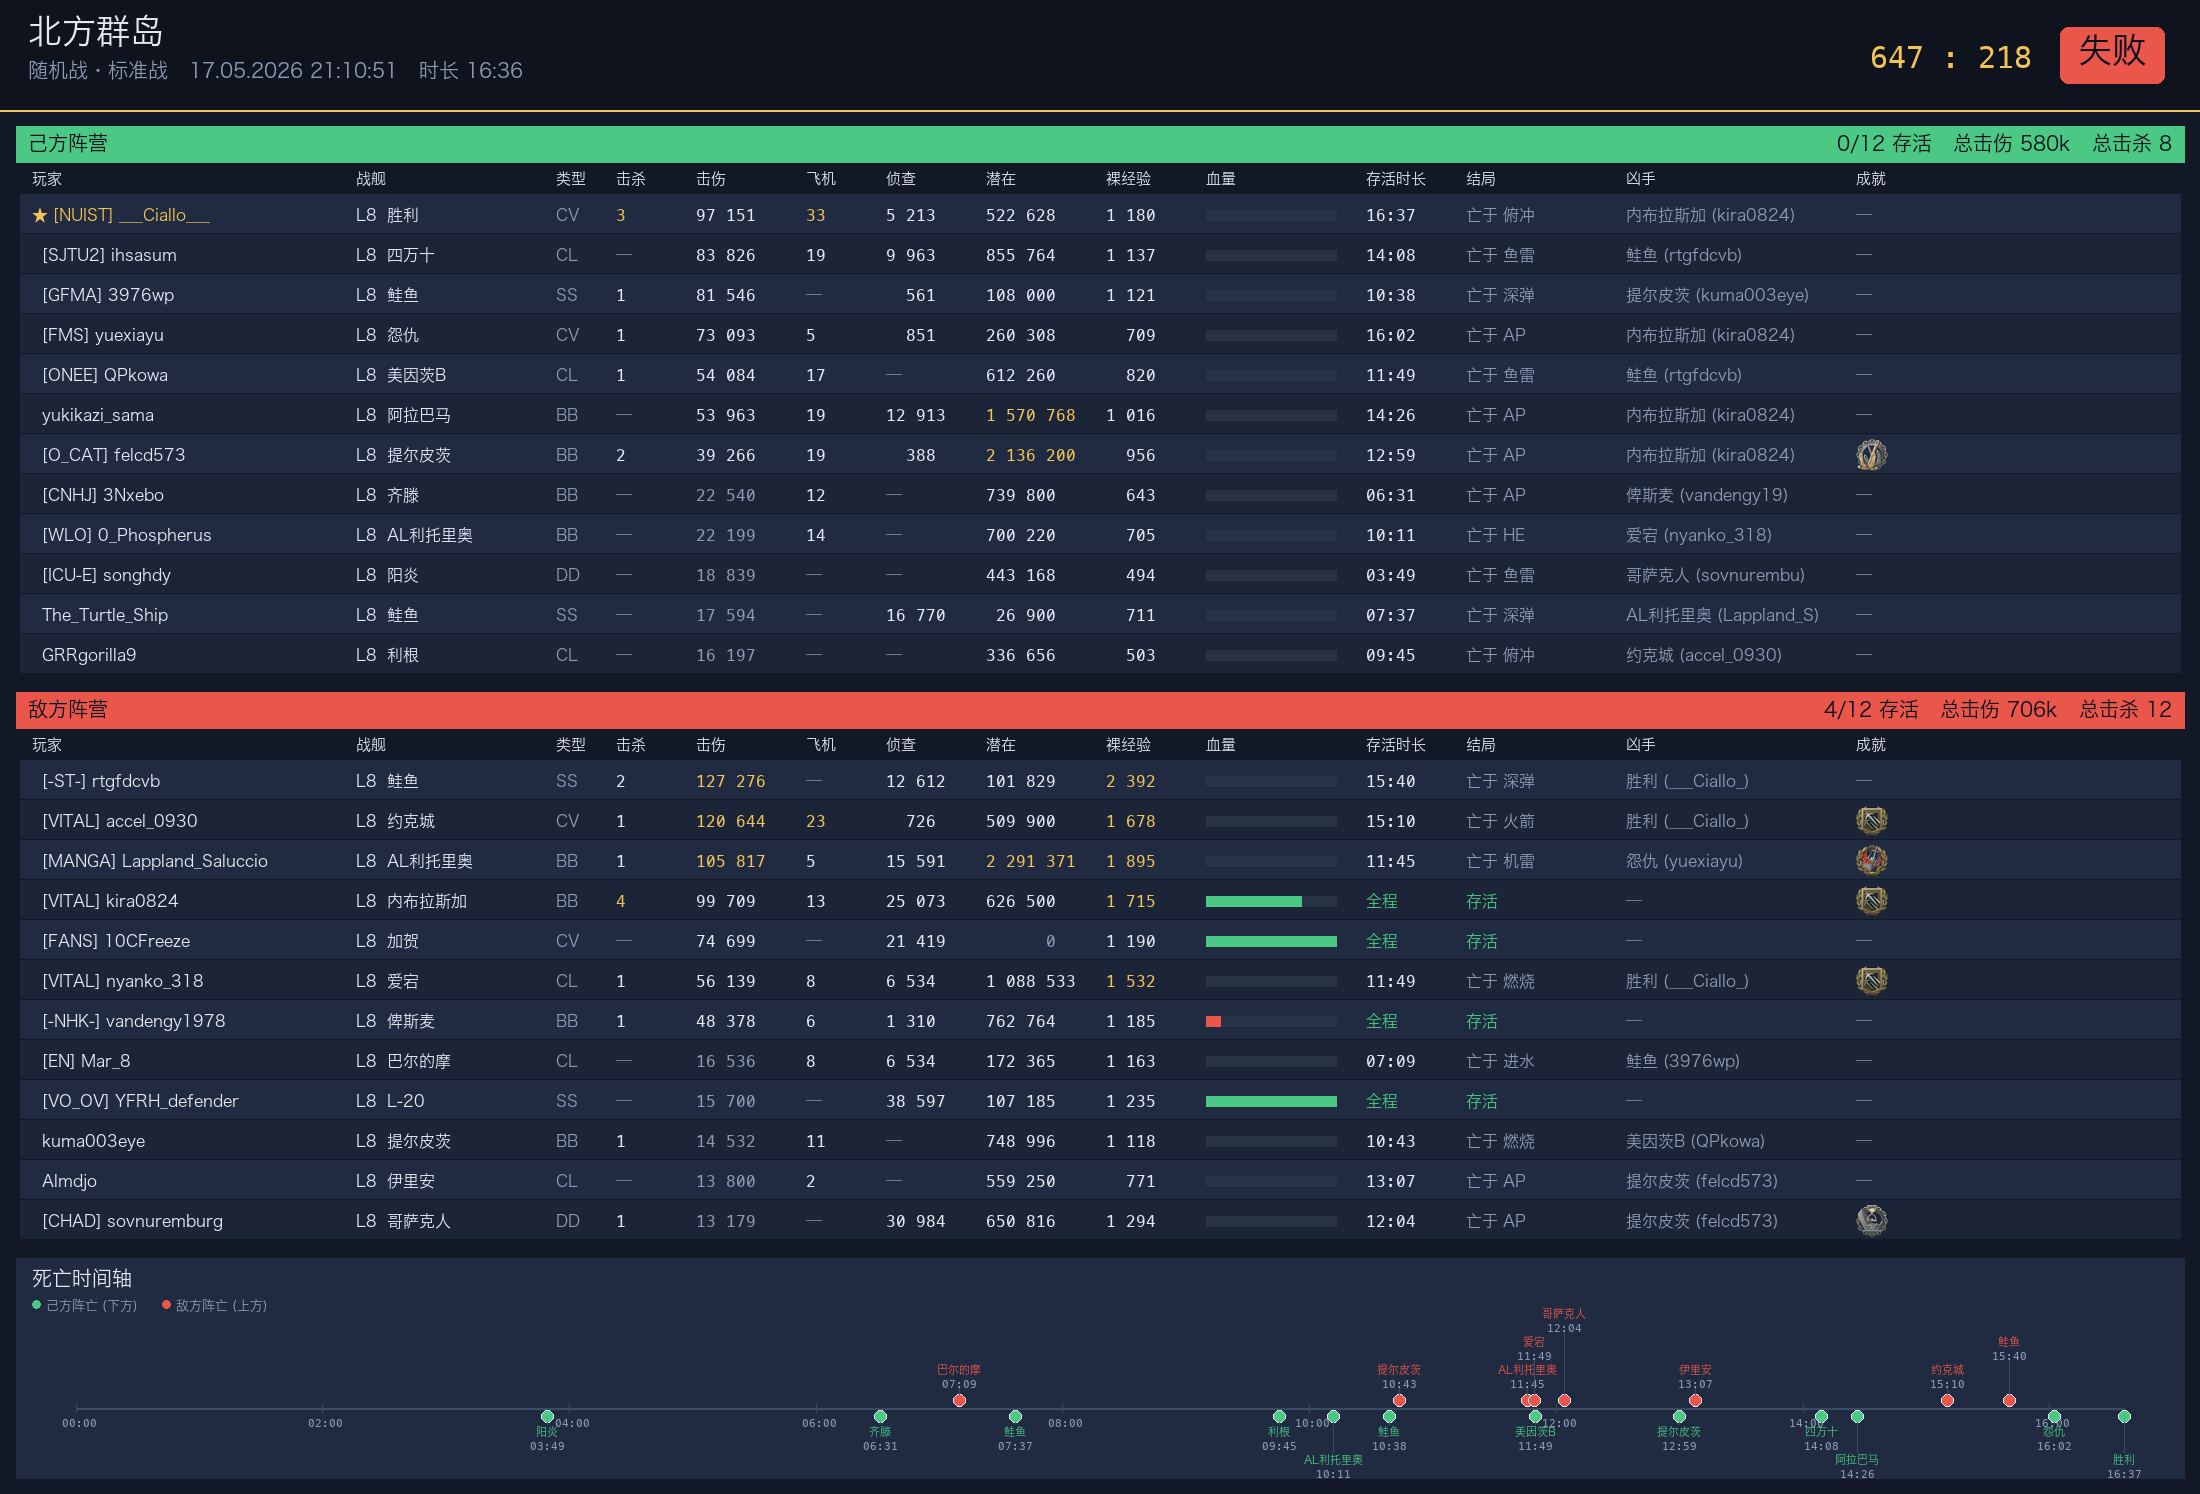
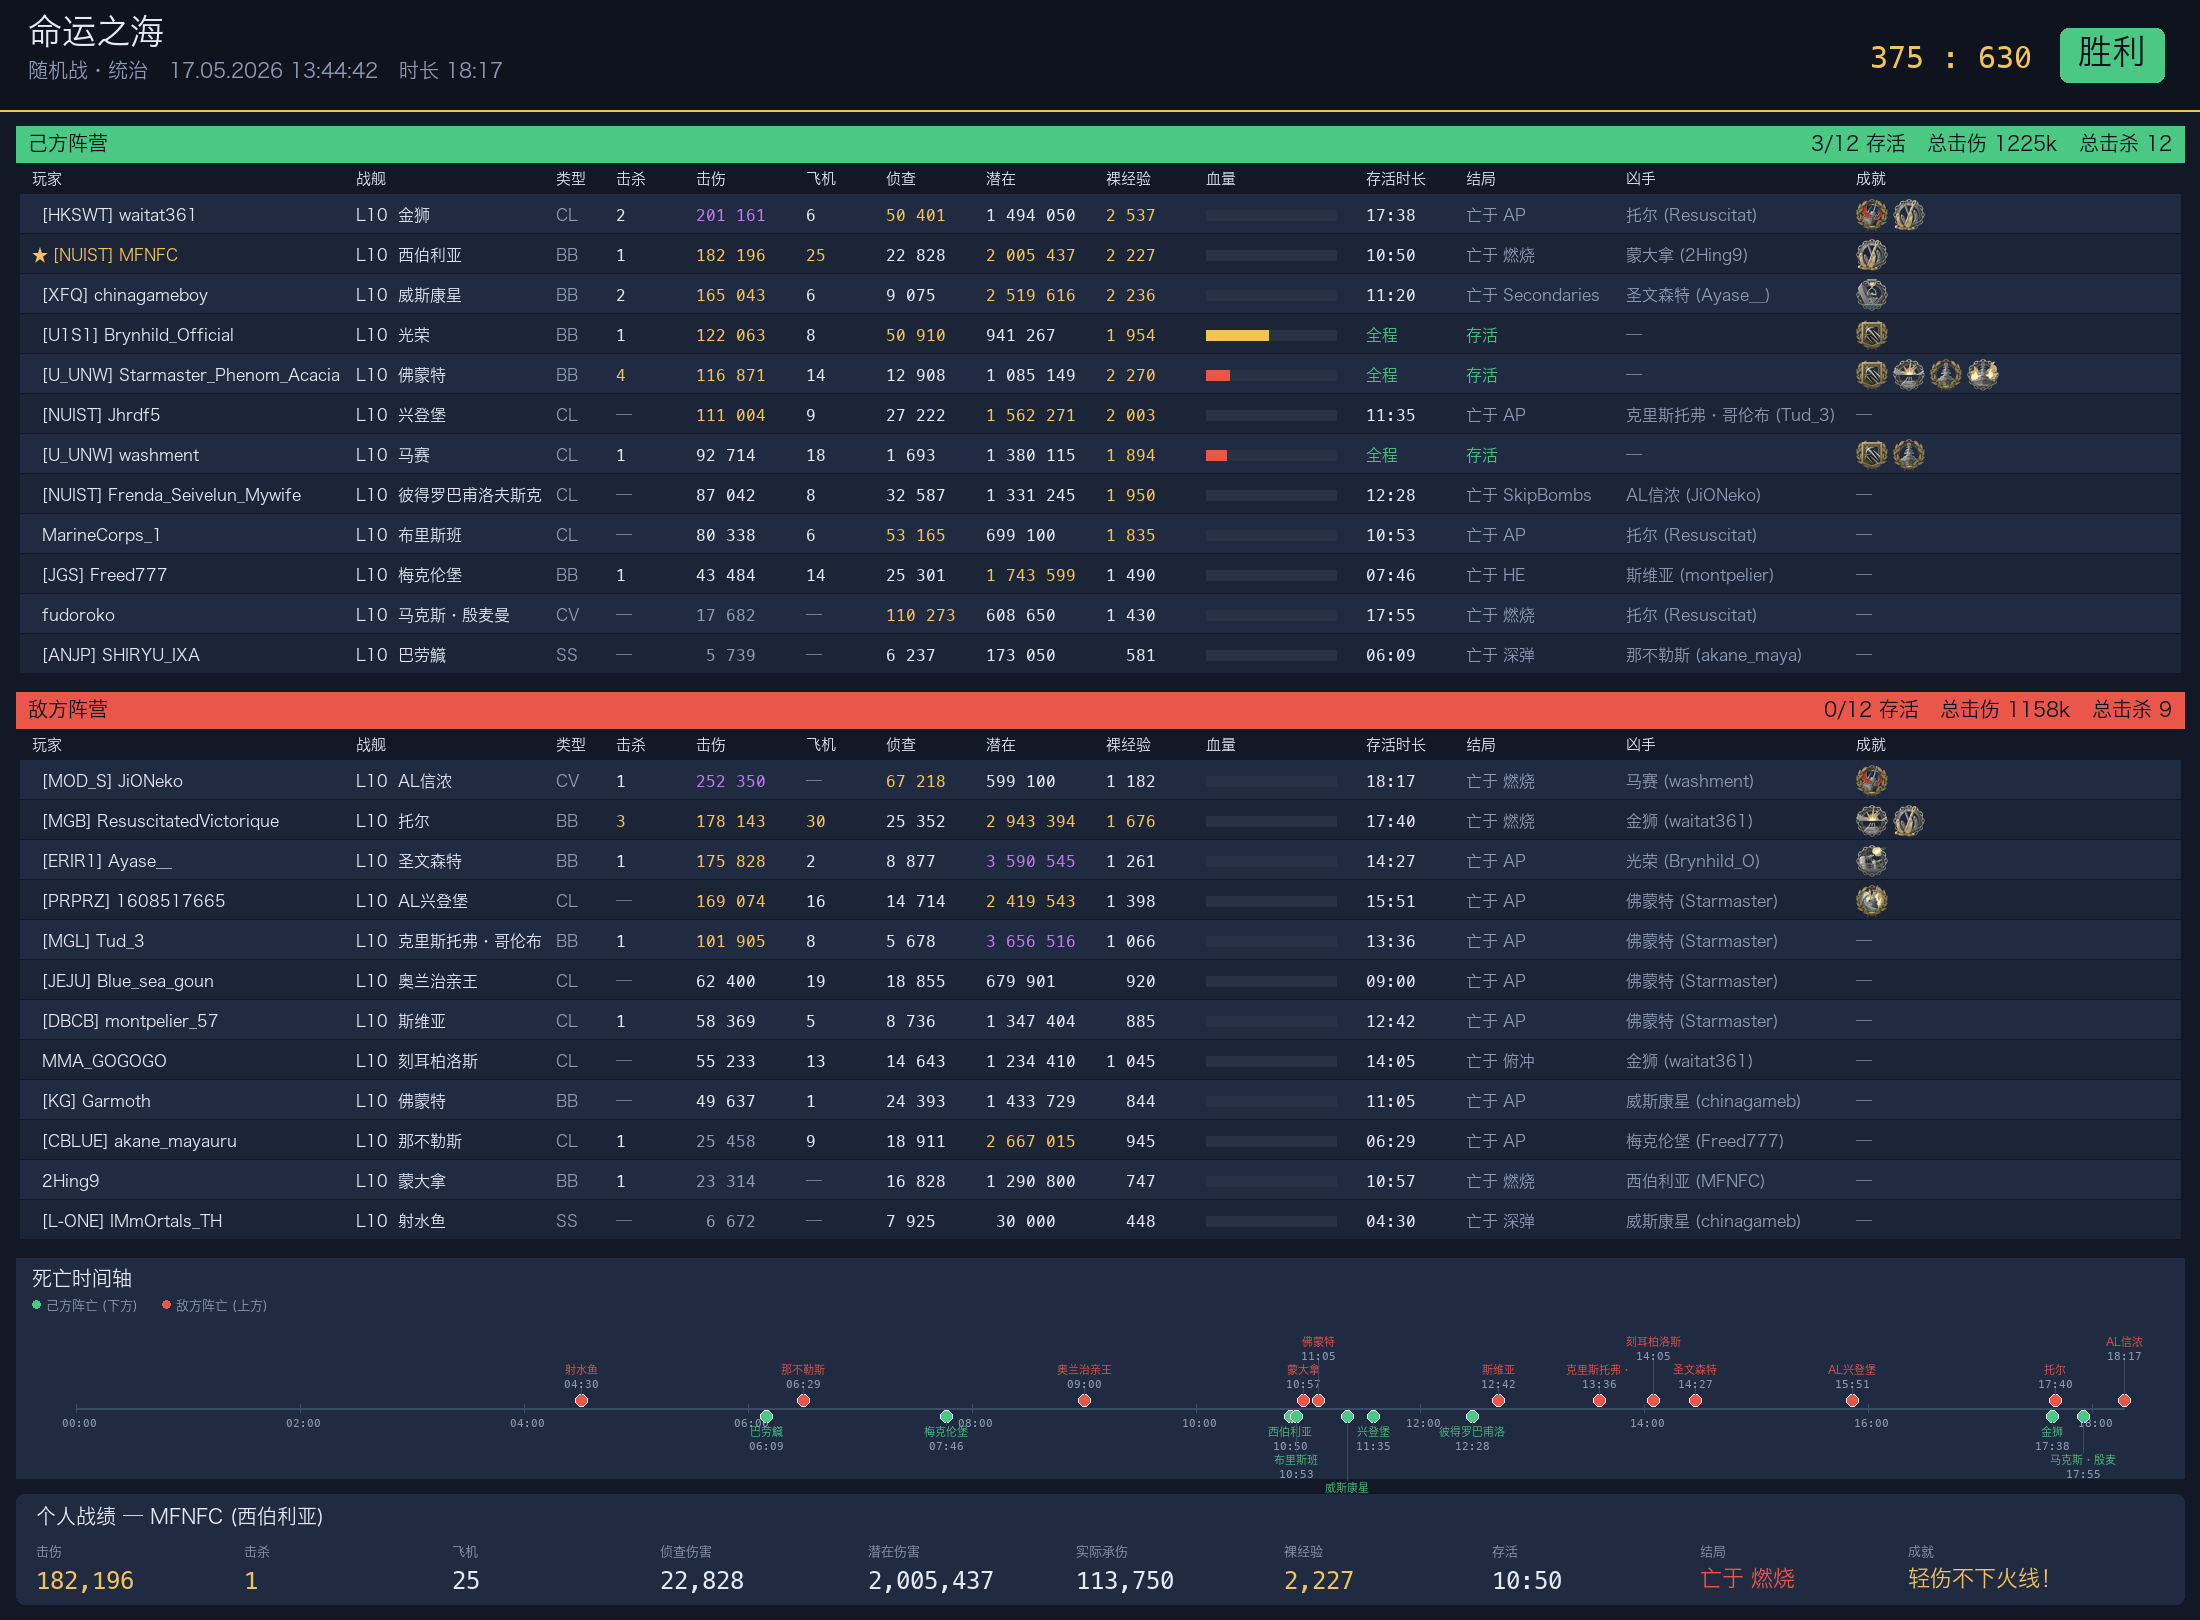
fix: 修复空袭/CV 攻击/深弹三类伤害的字段归属与双计 bug
WG 在 results_info 里把每种"飞机类武器"拆成 4 个变体：
  damage_XXX            → 总和（avia + alt + airsupport），不要直接用
  damage_XXX_avia       → CV 永久中队 - 主中队
  damage_XXX_alt        → CV 永久中队 - 备选中队
  damage_XXX_airsupport → 空袭消耗品（陆航空袭，金狮/奥兰治亲王等的 HE 弹）

之前 DEALT_CATEGORIES 直接用聚合字段 damage_bomb / damage_tbomb 等，
把 CV 攻击和陆航空袭混在同一标签下；同时 damage_dbomb_airsupport (196)
与 damage_adbomb (197) 是同一笔空袭命中在两个下标的镜像值，旧逻辑
把它们分别算进"深弹"和"高空炸弹"，导致同一笔 ASW 空袭被计算两次
（在测试回放 Sibir 上虚高 7,350）。

本次重构：
- CV 攻击只取 _avia + _alt（炸弹 / 跳炸 / 鱼雷机 / 火箭机）
- 陆航空袭独立分组：空袭 HE（damage_bomb_airsupport）、
  空袭深弹（damage_adbomb）、其他空袭（rocket/tbomb/skip airsupport）
- 舰射深弹只取 damage_dbomb_direct + _splash，不再混入 _airsupport 镜像
- "高空炸弹" 标签删除（之前对 damage_adbomb 的错误翻译）

示例图同步换成 Sibir 那把（能展示空袭深弹分类）。

diff --git a/bin/render_damage_chart.py b/bin/render_damage_chart.py
@@ -38,26 +38,39 @@ RIBBON_ICON_DIR = os.environ.get(
 # already). For tpd/atba we list the leaf keys.
 
 _PALETTE = {
-    "ap":        (220, 70, 70),
-    "he":        (240, 145, 50),
-    "cs":        (240, 200, 80),
-    "atba":      (210, 110, 90),
-    "tpd":       (60, 165, 230),
-    "tbomb":     (80, 190, 200),
-    "bomb":      (180, 100, 200),
-    "rocket":    (220, 95, 175),
-    "skip":      (200, 60, 130),
-    "dbomb":     (140, 100, 70),
-    "fire":      (235, 120, 70),
-    "flood":     (90, 130, 220),
-    "ram":       (150, 150, 160),
-    "sea_mine":  (90, 160, 110),
-    "adbomb":    (150, 95, 180),
-    "missile":   (190, 190, 200),
-    "special":   (170, 170, 110),
-    "event":     (130, 200, 130),
+    "ap":             (220, 70, 70),
+    "he":             (240, 145, 50),
+    "cs":             (240, 200, 80),
+    "atba":           (210, 110, 90),
+    "tpd":            (60, 165, 230),
+    "tbomb":          (80, 190, 200),
+    "bomb":           (180, 100, 200),
+    "rocket":         (220, 95, 175),
+    "skip":           (200, 60, 130),
+    "dbomb":          (140, 100, 70),
+    "fire":           (235, 120, 70),
+    "flood":          (90, 130, 220),
+    "ram":            (150, 150, 160),
+    "sea_mine":       (90, 160, 110),
+    "adbomb":         (150, 95, 180),
+    "missile":        (190, 190, 200),
+    "special":        (170, 170, 110),
+    "event":          (130, 200, 130),
+    # Airstrike-consumable variants (called in from surface ships).
+    "airstrike_he":   (210, 165, 110),  # bomb_airsupport (Lion/Prins van Oranje-type HE)
+    "airstrike_misc": (165, 140, 120),  # rare tbomb/skip/rocket airsupport
 }
 
+# WG 在 results_info 里把每种"飞机类武器"拆成 4 个变体：
+#   damage_XXX            → 总和（avia + alt + airsupport），不要直接用
+#   damage_XXX_avia       → CV 永久中队 - 主中队
+#   damage_XXX_alt        → CV 永久中队 - 备选中队（部分 CV 才有）
+#   damage_XXX_airsupport → 空袭消耗品（陆航召唤过来的临时中队，金狮 / 奥兰治亲王等用）
+# 把 CV 攻击和空袭分两类标签，避免来源混淆。
+#
+# 另：ADBOMB (weapon id 28) 是反潜空袭专用深弹；damage_dbomb_airsupport (196) 与
+# damage_adbomb (197) 始终是同一数字的镜像，只能取其一，否则双倍。这里保留
+# damage_adbomb 作"空袭深弹"，舰射深弹只取 direct + splash。
 DEALT_CATEGORIES = [
     ("主炮 AP",  _PALETTE["ap"],       ["damage_main_ap"]),
     ("主炮 HE",  _PALETTE["he"],       ["damage_main_he"]),
@@ -65,20 +78,31 @@ DEALT_CATEGORIES = [
     ("副炮",     _PALETTE["atba"],     ["damage_atba_ap","damage_atba_he","damage_atba_cs",
                                         "damage_atba_ap_manual","damage_atba_he_manual","damage_atba_cs_manual"]),
     ("鱼雷",     _PALETTE["tpd"],      ["damage_tpd_normal","damage_tpd_alter","damage_tpd_deep"]),
-    ("鱼雷机",   _PALETTE["tbomb"],    ["damage_tbomb"]),
-    ("炸弹",     _PALETTE["bomb"],     ["damage_bomb"]),
-    ("火箭机",   _PALETTE["rocket"],   ["damage_rocket"]),
-    ("跳炸",     _PALETTE["skip"],     ["damage_skip"]),
-    ("深弹",     _PALETTE["dbomb"],    ["damage_dbomb_direct","damage_dbomb_splash","damage_dbomb_airsupport"]),
+    # --- CV 舰载机攻击 ---
+    ("炸弹",     _PALETTE["bomb"],     ["damage_bomb_avia","damage_bomb_alt"]),
+    ("跳炸",     _PALETTE["skip"],     ["damage_skip_avia","damage_skip_alt"]),
+    ("鱼雷机",   _PALETTE["tbomb"],    ["damage_tbomb_avia","damage_tbomb_alt"]),
+    ("火箭机",   _PALETTE["rocket"],   ["damage_rocket_avia","damage_rocket_alt"]),
+    # --- 空袭消耗品（陆航空袭） ---
+    ("空袭 HE",  _PALETTE["airstrike_he"],   ["damage_bomb_airsupport"]),
+    ("空袭深弹", _PALETTE["adbomb"],          ["damage_adbomb"]),
+    ("其他空袭", _PALETTE["airstrike_misc"],  ["damage_tbomb_airsupport",
+                                              "damage_skip_airsupport",
+                                              "damage_rocket_airsupport"]),
+    # --- 舰射深弹（DD/CL 尾投或前甩） ---
+    ("深弹",     _PALETTE["dbomb"],    ["damage_dbomb_direct","damage_dbomb_splash"]),
+    # --- 其他 ---
     ("火灾",     _PALETTE["fire"],     ["damage_fire"]),
     ("进水",     _PALETTE["flood"],    ["damage_flood"]),
     ("撞击",     _PALETTE["ram"],      ["damage_ram"]),
     ("水雷",     _PALETTE["sea_mine"], ["damage_sea_mine"]),
-    ("高空炸弹", _PALETTE["adbomb"],   ["damage_adbomb"]),
     ("导弹",     _PALETTE["missile"],  ["damage_missile"]),
     ("事件伤害", _PALETTE["event"],    ["damage_event_1","damage_event_2"]),
 ]
 
+# 受伤侧字段拆分规律与 DEALT 一致。received_damage_dbomb (227) 经验上是舰射深弹收到的，
+# received_damage_adbomb (237) 是空袭深弹收到的，received_damage_dbomb_airsupport (236)
+# 多半是 adbomb 的镜像（未在样本中证实，先不算入避免双倍）。
 RECEIVED_CATEGORIES = [
     ("主炮 AP",  _PALETTE["ap"],       ["received_damage_main_ap"]),
     ("主炮 HE",  _PALETTE["he"],       ["received_damage_main_he"]),
@@ -86,16 +110,24 @@ RECEIVED_CATEGORIES = [
     ("副炮",     _PALETTE["atba"],     ["received_damage_atba_ap","received_damage_atba_he","received_damage_atba_cs",
                                         "received_damage_atba_ap_manual","received_damage_atba_he_manual","received_damage_atba_cs_manual"]),
     ("鱼雷",     _PALETTE["tpd"],      ["received_damage_tpd_normal","received_damage_tpd_alter","received_damage_tpd_deep"]),
-    ("鱼雷机",   _PALETTE["tbomb"],    ["received_damage_tbomb"]),
-    ("炸弹",     _PALETTE["bomb"],     ["received_damage_bomb"]),
-    ("火箭机",   _PALETTE["rocket"],   ["received_damage_rocket"]),
-    ("跳炸",     _PALETTE["skip"],     ["received_damage_skip"]),
+    # --- CV 舰载机攻击 ---
+    ("炸弹",     _PALETTE["bomb"],     ["received_damage_bomb_avia","received_damage_bomb_alt"]),
+    ("跳炸",     _PALETTE["skip"],     ["received_damage_skip_avia","received_damage_skip_alt"]),
+    ("鱼雷机",   _PALETTE["tbomb"],    ["received_damage_tbomb_avia","received_damage_tbomb_alt"]),
+    ("火箭机",   _PALETTE["rocket"],   ["received_damage_rocket_avia","received_damage_rocket_alt"]),
+    # --- 空袭消耗品 ---
+    ("空袭 HE",  _PALETTE["airstrike_he"],   ["received_damage_bomb_airsupport"]),
+    ("空袭深弹", _PALETTE["adbomb"],          ["received_damage_adbomb"]),
+    ("其他空袭", _PALETTE["airstrike_misc"],  ["received_damage_tbomb_airsupport",
+                                              "received_damage_skip_airsupport",
+                                              "received_damage_rocket_airsupport"]),
+    # --- 舰射深弹 ---
     ("深弹",     _PALETTE["dbomb"],    ["received_damage_dbomb"]),
+    # --- 其他 ---
     ("火灾",     _PALETTE["fire"],     ["received_damage_fire"]),
     ("进水",     _PALETTE["flood"],    ["received_damage_flood"]),
     ("撞击",     _PALETTE["ram"],      ["received_damage_ram"]),
     ("水雷",     _PALETTE["sea_mine"], ["received_damage_sea_mine"]),
-    ("高空炸弹", _PALETTE["adbomb"],   ["received_damage_adbomb"]),
     ("导弹",     _PALETTE["missile"],  ["received_damage_missile"]),
     ("特殊伤害", _PALETTE["special"],  ["received_damage_special","received_damage_mirror"]),
     ("事件伤害", _PALETTE["event"],    ["received_damage_event_1","received_damage_event_2"]),
